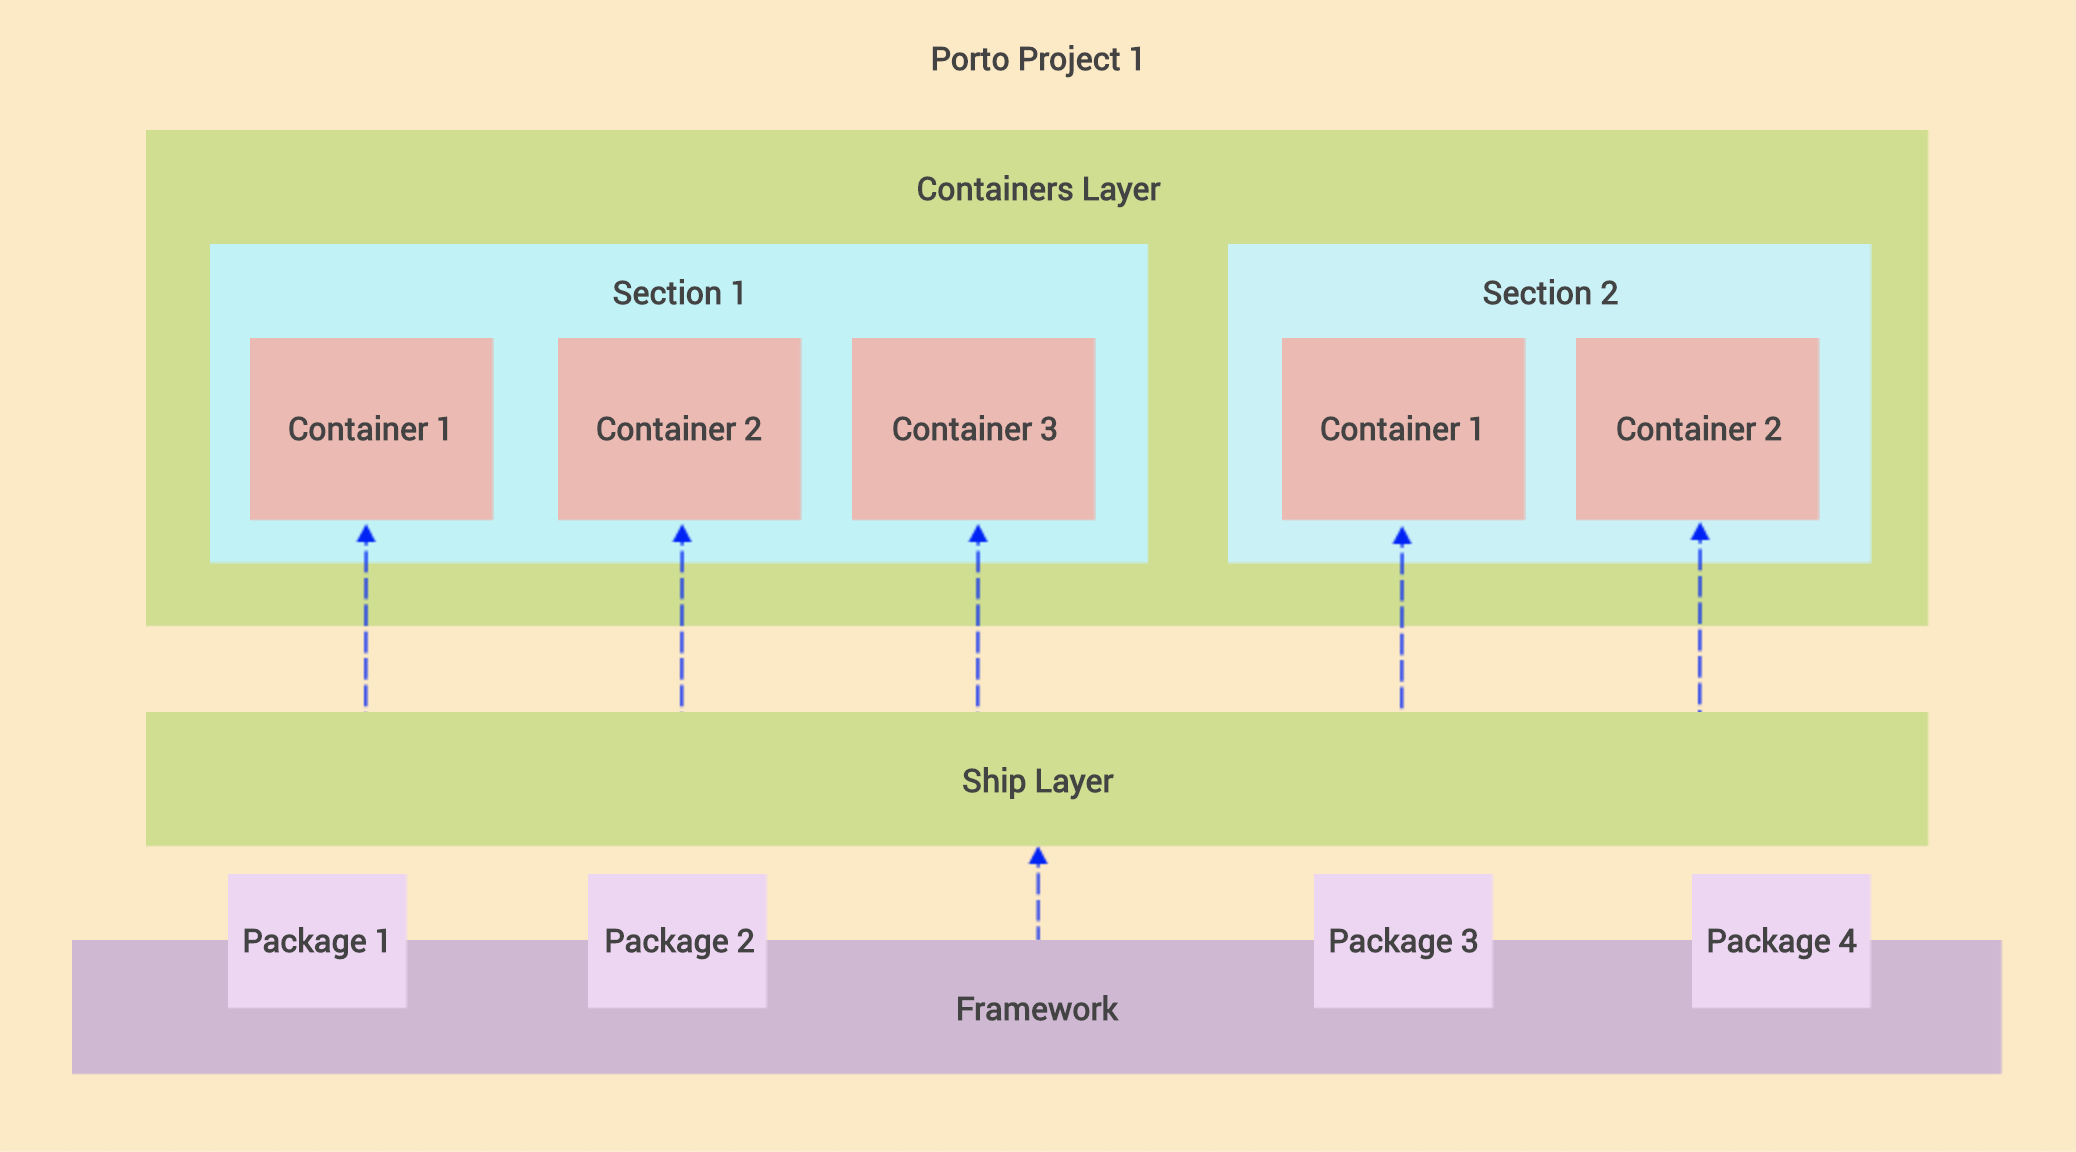
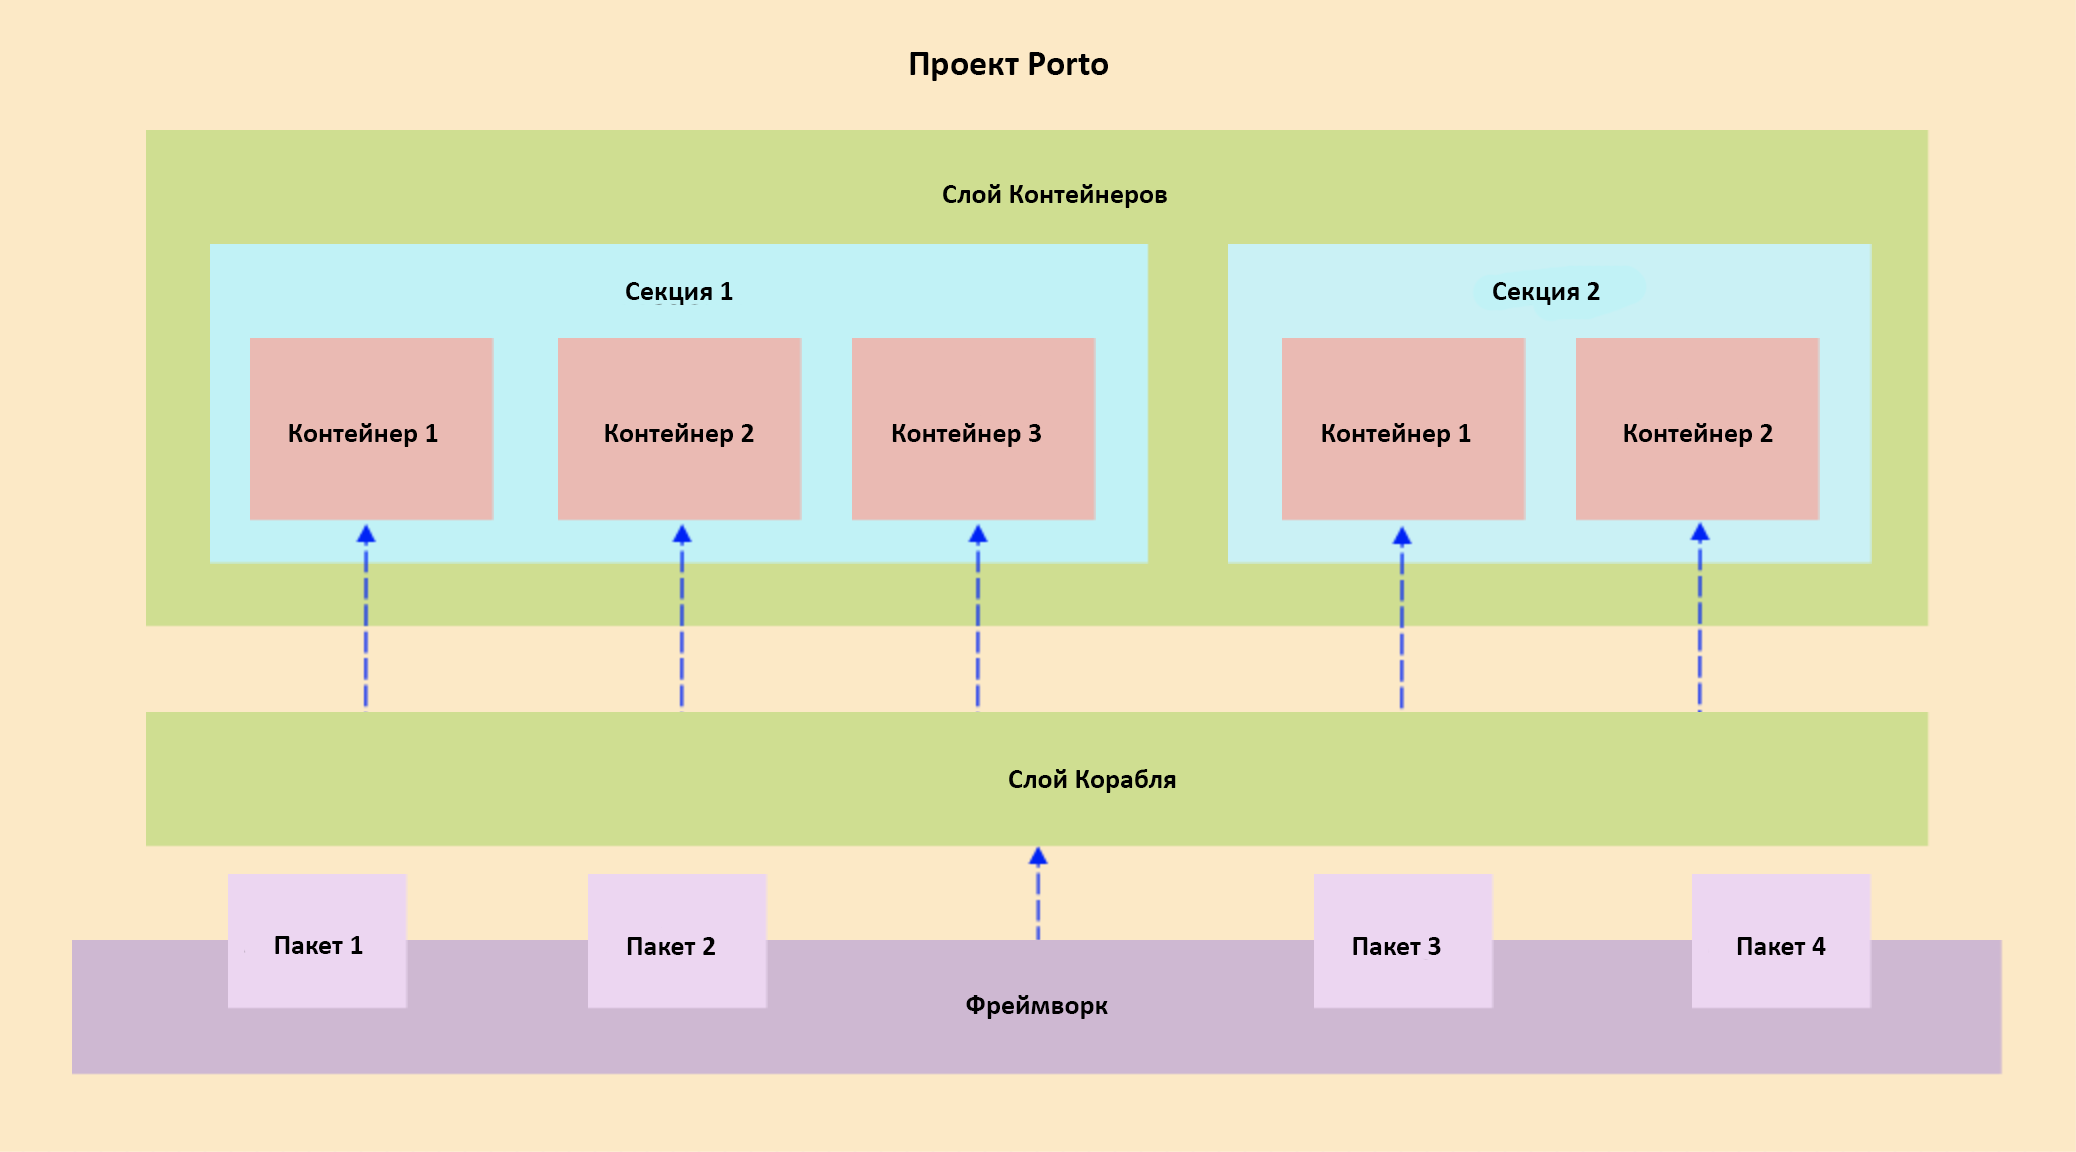
layers

diff --git a/README.md b/README.md
@@ -102,16 +102,14 @@ Porto - отличный вариант для средних и крупных 
 ![](/assets/porto_visual_diagram.png)
 
 
-Before explaining where each type of code should be placed, let's understand the different levels of code we will have:
-
-#### Code Levels
-
-- **Low-level code**: the framework code (implements basic operations like reading files from a disk, or interacting with a database). Usually lives in the Vendor directory.
-- **Mid-level code**: the application general code (implements functionality that serves the High-level code. And it relies on the Low-level code to function). Should be in the `Ship` layer.
-- **High-level code**: the business logic code (encapsulates complex logic and relies on the Mid-level code to function). Should be in the `Containers` layer.
+Прежде чем объяснить, где должен размещаться код каждого типа, давайте разберемся в различных уровнях кода, которые у нас будут:
 
 
+#### Уровни кода
 
+- **Низкоуровневый код**: код фреймворка (реализует основные операции, такие как чтение файлов с диска или взаимодействие с базой данных). Обычно живет в каталоге поставщиков (vendors).
+- **Среднеуровневый код**: общий код приложения (реализует функциональность, которая обслуживает код высокого уровня. И он полагается на низкоуровневый код для работы). Должен быть в слое "Корабль".
+- **Высокоуровневый код**: код бизнес-логики (инкапсулирует сложную логику и для функционирования полагается на код среднего уровня). Должен быть в слое "Контейнеры".
 
 
 
@@ -119,9 +117,13 @@ Before explaining where each type of code should be placed, let's understand the
 
 
 
-### Layers Diagram
+
+
+
+### Схема Слоев
 
 The Containers layer (cargo containers) `>> relies >>` on the Ship layer (cargo ship) `>> relies >>` on the Framework (sea).
+Слой Контейнеров (грузовые контейнеры) >> опирается >> на слой Корабля (грузовой корабль) >> опирается >> на Фреймворк (море).
 
 ![](/assets/porto_layers.png)
 
